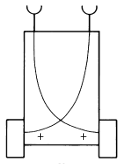
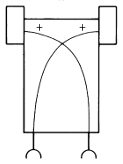
Die Blanko Entität hat nun auch eine "Nase"

Changed region(s): [[0.0244, 0.0305, 0.9756, 0.9756], [0.439, 0.7012, 0.561, 0.7622]]

diff --git a/src/scenes/EditorScene.ts b/src/scenes/EditorScene.ts
@@ -18,12 +18,12 @@ export default class EditorScene extends SidebarScene {
   }
 
   public onCreate(container: Phaser.GameObjects.Container): void {
-    const prefabBlank = this.add.image(0, 0, 'prefab-blank');
+    const prefabBlank = this.add.image(0, 0, 'prefab-blank').setFlipY(true);
     const prefabSource = this.add.image(0, 0, 'prefab-source');
-    const prefab2a = this.add.image(0, 0, 'prefab-2a');
-    const prefab2b = this.add.image(0, 0, 'prefab-2b');
-    const prefab3a = this.add.image(0, 0, 'prefab-3a');
-    const prefab3b = this.add.image(0, 0, 'prefab-3b');
+    const prefab2a = this.add.image(0, 0, 'prefab-2a').setFlipY(true);
+    const prefab2b = this.add.image(0, 0, 'prefab-2b').setFlipY(true);
+    const prefab3a = this.add.image(0, 0, 'prefab-3a').setFlipY(true);
+    const prefab3b = this.add.image(0, 0, 'prefab-3b').setFlipY(true);
 
     this.makeInteractable(prefabBlank, position => {
       const entity = new Entity();
